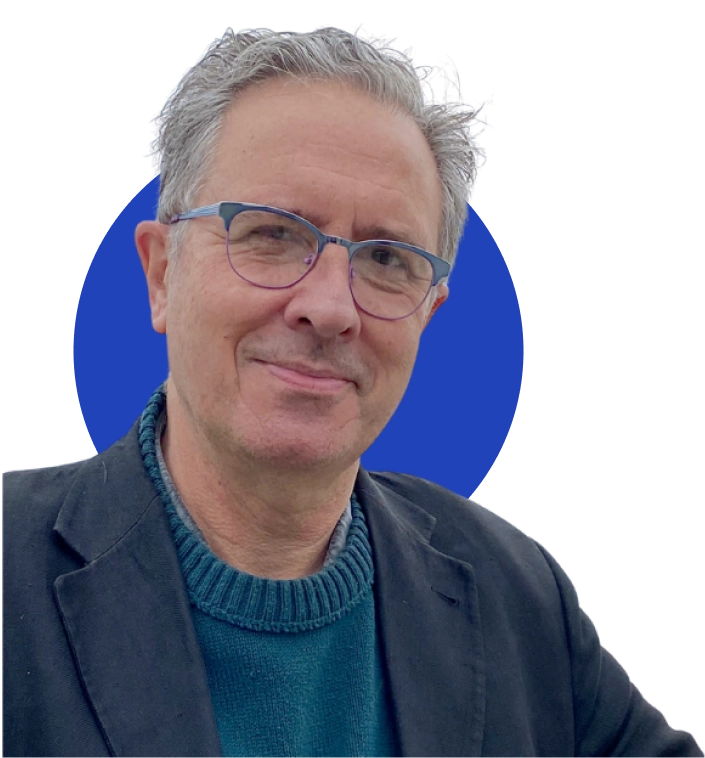
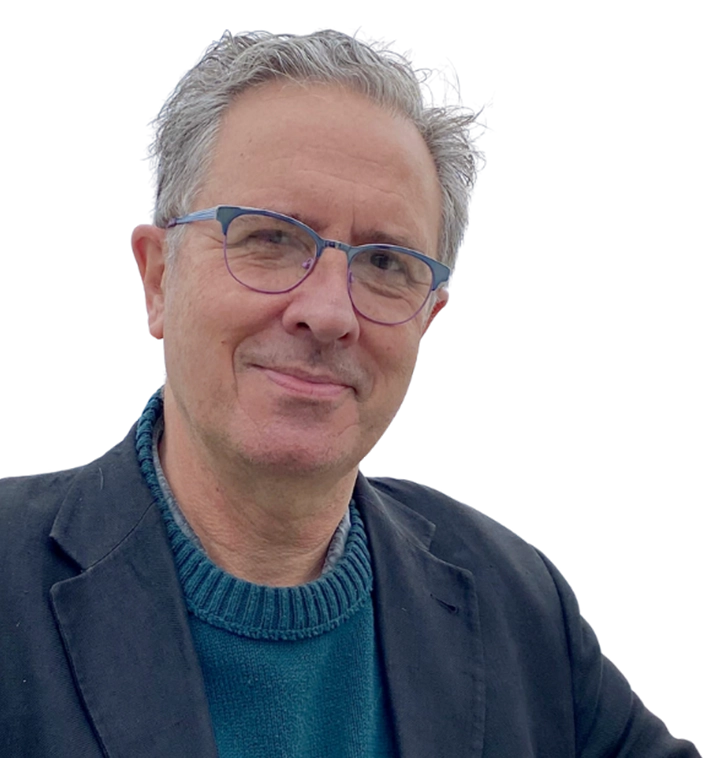
Se agrega circulo sticky en index

diff --git a/index.html b/index.html
@@ -142,8 +142,12 @@
   <section class="acerca-revista">
     <div class="container-fluid">
       <div class="row d-flex align-items-center justify-content-center">
-        <div class="col-xl-4 col-lg-6 order-xl-1 order-2">
+        <div class="col-xxl-4 col-xl-6 col-lg-6 order-xl-1 order-2">
+          <div class="circulo-acerca">
+            <div class="circulo-azul"></div>
+          </div>
           <img src="img/acerca-revista-signos.webp" class="img-fluid img-acerca-revista">
+          <img src="img/acerca-revista-signos-circulo.webp" class="img-fluid img-acerca-revista-circulo">
         </div>
         <div class="col-xl-6 col-lg-6 ms-auto order-xl-2 order-1">
           <p><strong>SIGNOS (Teoría y práctica de la educación)</strong> fue una revista educativa que surgió a finales

diff --git a/css/style.css b/css/style.css
@@ -125,6 +125,7 @@ a:hover {
   height: 100vh;
   width: 100%;
   position: relative;
+  z-index: 9;
 }
 
 .revista-wrapper .left-container {
@@ -204,6 +205,44 @@ a.correo-link {
 
 a:hover.correo-link {
   color: #2042B8;
+}
+
+.acerca-revista img {
+  position: relative;
+}
+
+.circulo-azul {
+  position: fixed;
+  top: 15%;
+  left: 13%;
+  height: 280px;
+  width: 280px;
+  border-radius: 50%;
+  background: #2042B8;
+  z-index: 0;
+}
+
+@media (max-width: 1400px) {
+  .circulo-azul {
+    height: 250px;
+    width: 250px;
+    top: 7%;
+    left: 18%;
+  }
+}
+
+@media (min-width: 1200px) {
+  .img-acerca-revista-circulo {
+    display: none;
+  }
+}
+
+
+@media (max-width: 1199.98px) {
+  .circulo-acerca,
+  .img-acerca-revista {
+    display: none;
+  }
 }
 
 /* Termina Acerca de */
